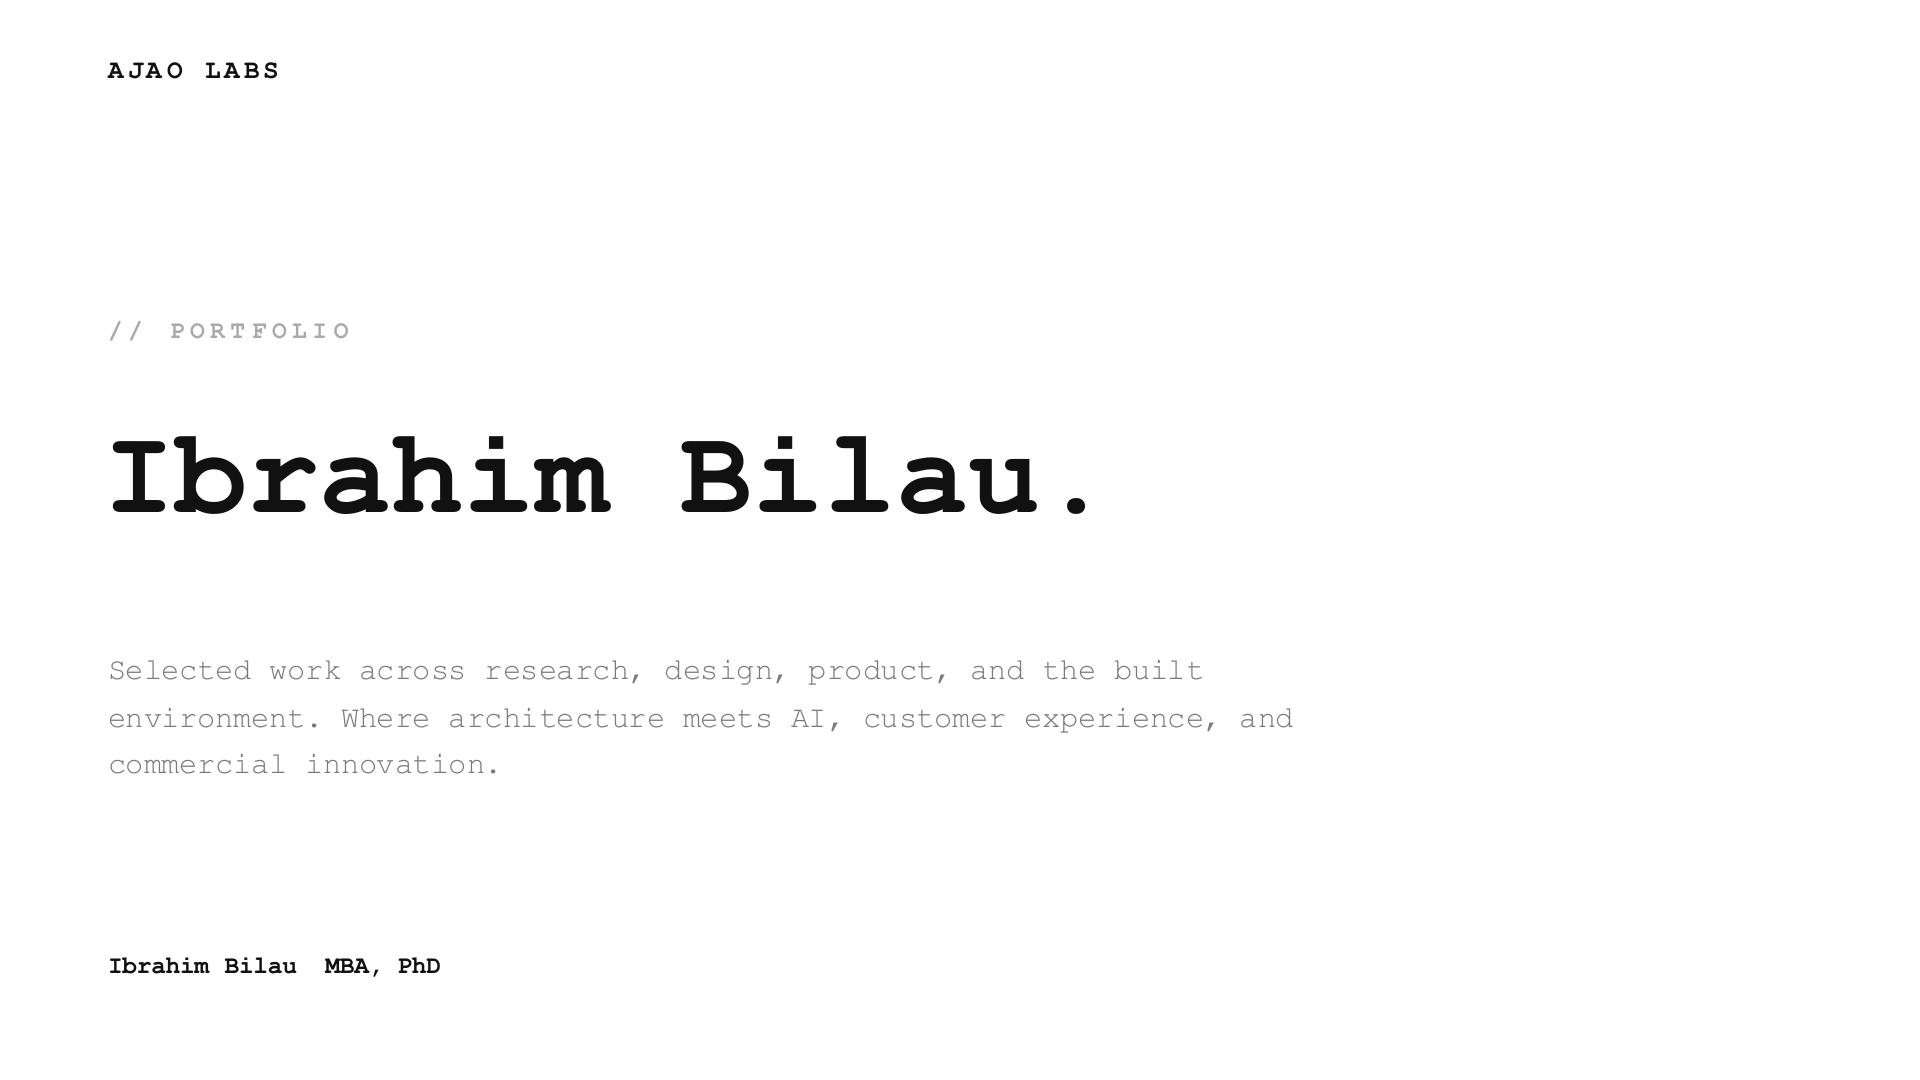
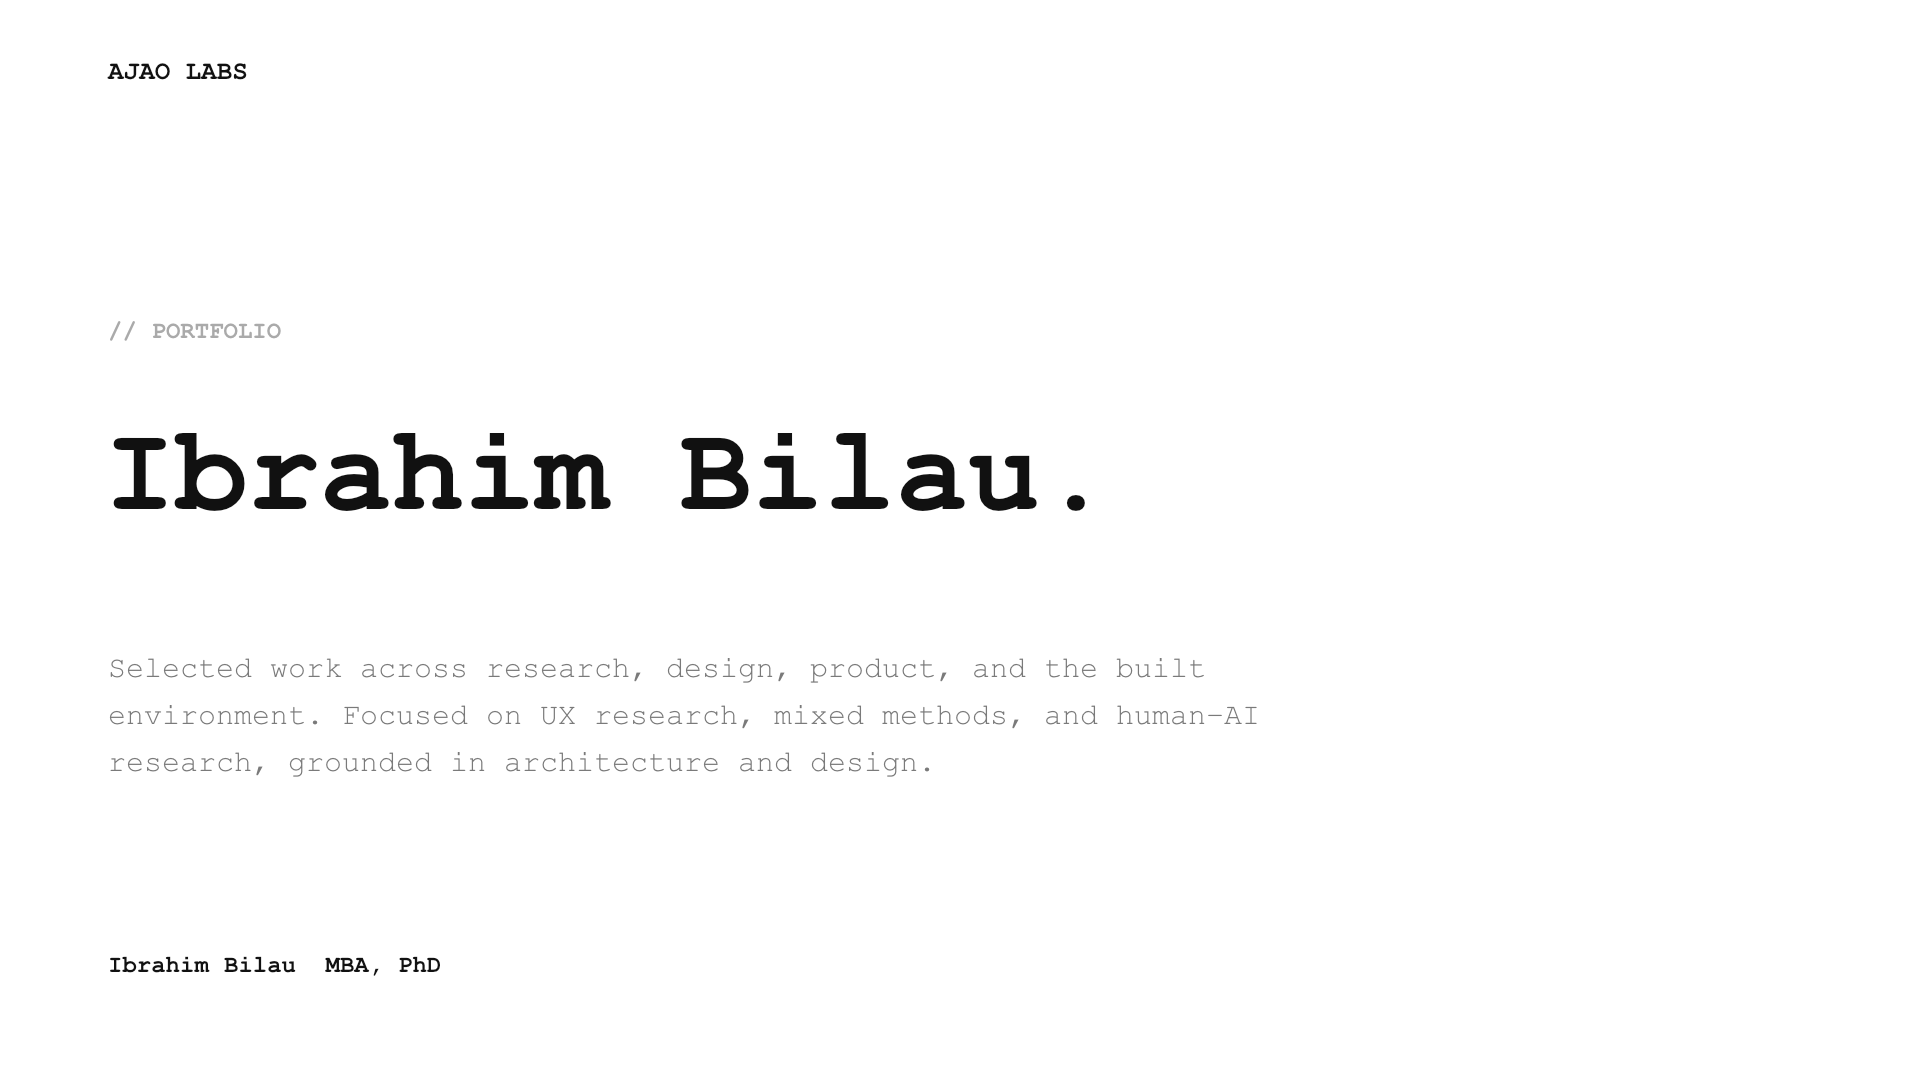
Add dynamic swipe guidance and refine positioning

diff --git a/styles.css b/styles.css
@@ -101,7 +101,7 @@ body {
 .navigation-cue {
   position: fixed;
   z-index: 10;
-  right: max(24px, env(safe-area-inset-right));
+  left: 50%;
   bottom: max(18px, env(safe-area-inset-bottom));
   display: flex;
   align-items: center;
@@ -114,7 +114,8 @@ body {
   text-transform: uppercase;
   white-space: nowrap;
   pointer-events: none;
-  opacity: 0.58;
+  opacity: 0.14;
+  transform: translateX(-50%);
   transition: opacity 280ms ease, transform 280ms ease;
 }
 
@@ -123,6 +124,10 @@ body {
 }
 
 .navigation-cue.is-edge {
+  opacity: 0.14;
+}
+
+.navigation-cue.is-edge.is-hinting {
   opacity: 0.62;
 }
 
@@ -134,8 +139,28 @@ body {
   letter-spacing: 0;
 }
 
-.navigation-cue.is-initial .cue-arrow {
-  animation: cue-left 1.8s ease-in-out 3;
+.navigation-cue.is-home.is-hinting .cue-arrow {
+  animation: cue-left 1.8s ease-in-out 2;
+}
+
+.navigation-cue.is-end #cueLabel {
+  order: 1;
+}
+
+.navigation-cue.is-end .cue-arrow {
+  order: 2;
+}
+
+.navigation-cue.is-end #cueSeparator {
+  order: 3;
+}
+
+.navigation-cue.is-end #cueCount {
+  order: 4;
+}
+
+.navigation-cue.is-end.is-hinting .cue-arrow {
+  animation: cue-right 1.8s ease-in-out 2;
 }
 
 .navigation-cue.is-count-only #cueLabel,
@@ -147,7 +172,12 @@ body {
 
 @keyframes cue-left {
   0%, 100% { transform: translateX(0); opacity: 0.45; }
-  50% { transform: translateX(-5px); opacity: 1; }
+  50% { transform: translateX(-8px); opacity: 1; }
+}
+
+@keyframes cue-right {
+  0%, 100% { transform: translateX(0); opacity: 0.45; }
+  50% { transform: translateX(8px); opacity: 1; }
 }
 
 @media (max-width: 600px) {
@@ -167,7 +197,6 @@ body {
   }
 
   .navigation-cue {
-    right: max(12px, env(safe-area-inset-right));
     bottom: max(12px, env(safe-area-inset-bottom));
     font-size: 9px;
   }
@@ -178,7 +207,8 @@ body {
     scroll-behavior: auto;
   }
 
-  .navigation-cue.is-initial .cue-arrow {
+  .navigation-cue.is-home .cue-arrow,
+  .navigation-cue.is-end .cue-arrow {
     animation: none;
   }
 }

diff --git a/main.js b/main.js
@@ -23,12 +23,27 @@
   let restartDistance = 0;
   let restartSamples = 0;
   let wheelIdleTimer;
+  let cueHideTimer;
+  let cueCycleTimer;
   let settleFrame;
   let pointer = null;
 
   const pad = value => String(value).padStart(2, '0');
   const clamp = index => Math.max(0, Math.min(slides.length - 1, index));
   const behavior = () => reducedMotion.matches ? 'auto' : 'smooth';
+
+  const scheduleEdgeCue = index => {
+    clearTimeout(cueHideTimer);
+    clearTimeout(cueCycleTimer);
+    cue.classList.add('is-hinting');
+
+    cueHideTimer = setTimeout(() => {
+      cue.classList.remove('is-hinting');
+      cueCycleTimer = setTimeout(() => {
+        if (current === index && !navigating) scheduleEdgeCue(index);
+      }, 7000);
+    }, 4600);
+  };
 
   const updateCue = index => {
     const isHome = index === 0;
@@ -37,12 +52,28 @@
     const isCountOnly = !isHome && !isEnd;
 
     cue.classList.toggle('is-initial', isInitial);
+    cue.classList.toggle('is-home', isHome);
+    cue.classList.toggle('is-end', isEnd);
     cue.classList.toggle('is-count-only', isCountOnly);
     cue.classList.toggle('is-edge', isHome || isEnd);
-    cueArrow.hidden = !isInitial;
-    cueLabel.textContent = isEnd ? 'End' : isInitial ? 'Swipe left' : isHome ? 'Home' : '';
+    cueArrow.hidden = isCountOnly;
+    cueArrow.textContent = isEnd ? '→' : '←';
+    cueLabel.textContent = isEnd
+      ? 'End · Swipe right'
+      : isInitial
+        ? 'Swipe left'
+        : isHome
+          ? 'Home · Swipe left'
+          : '';
     cueSeparator.hidden = isCountOnly;
     cueCount.textContent = `${pad(index + 1)} / ${pad(slides.length)}`;
+
+    if (isHome || isEnd) scheduleEdgeCue(index);
+    else {
+      clearTimeout(cueHideTimer);
+      clearTimeout(cueCycleTimer);
+      cue.classList.remove('is-hinting');
+    }
   };
 
   const resetWheelGesture = () => {

diff --git a/index.html b/index.html
@@ -8,7 +8,7 @@
   <link rel="preload" as="image" href="slides/slide-01.png">
   <link rel="preload" as="image" href="slides/slide-02.png">
   <link rel="icon" href="assets/favicon.png" type="image/png">
-  <link rel="stylesheet" href="styles.css?v=20260811">
+  <link rel="stylesheet" href="styles.css?v=20260812-1">
   <title>Ibrahim Bilau | Portfolio</title>
 </head>
 <body>
@@ -30,7 +30,7 @@
     </a>
   </nav>
 
-  <div class="navigation-cue is-initial" id="navigationCue" role="status" aria-live="polite">
+  <div class="navigation-cue is-initial is-edge is-hinting" id="navigationCue" role="status" aria-live="polite">
     <span class="cue-arrow" id="cueArrow" aria-hidden="true">←</span>
     <span id="cueLabel">Swipe left</span>
     <span class="cue-separator" id="cueSeparator" aria-hidden="true">·</span>
@@ -58,6 +58,6 @@
     <section class="slide" id="slide-18" aria-label="Slide 18 of 18: Credentials"><img src="slides/slide-18.png" alt="Ibrahim Bilau credentials" loading="lazy" draggable="false"></section>
   </main>
 
-  <script src="main.js?v=20260811-2" defer></script>
+  <script src="main.js?v=20260812-1" defer></script>
 </body>
 </html>
